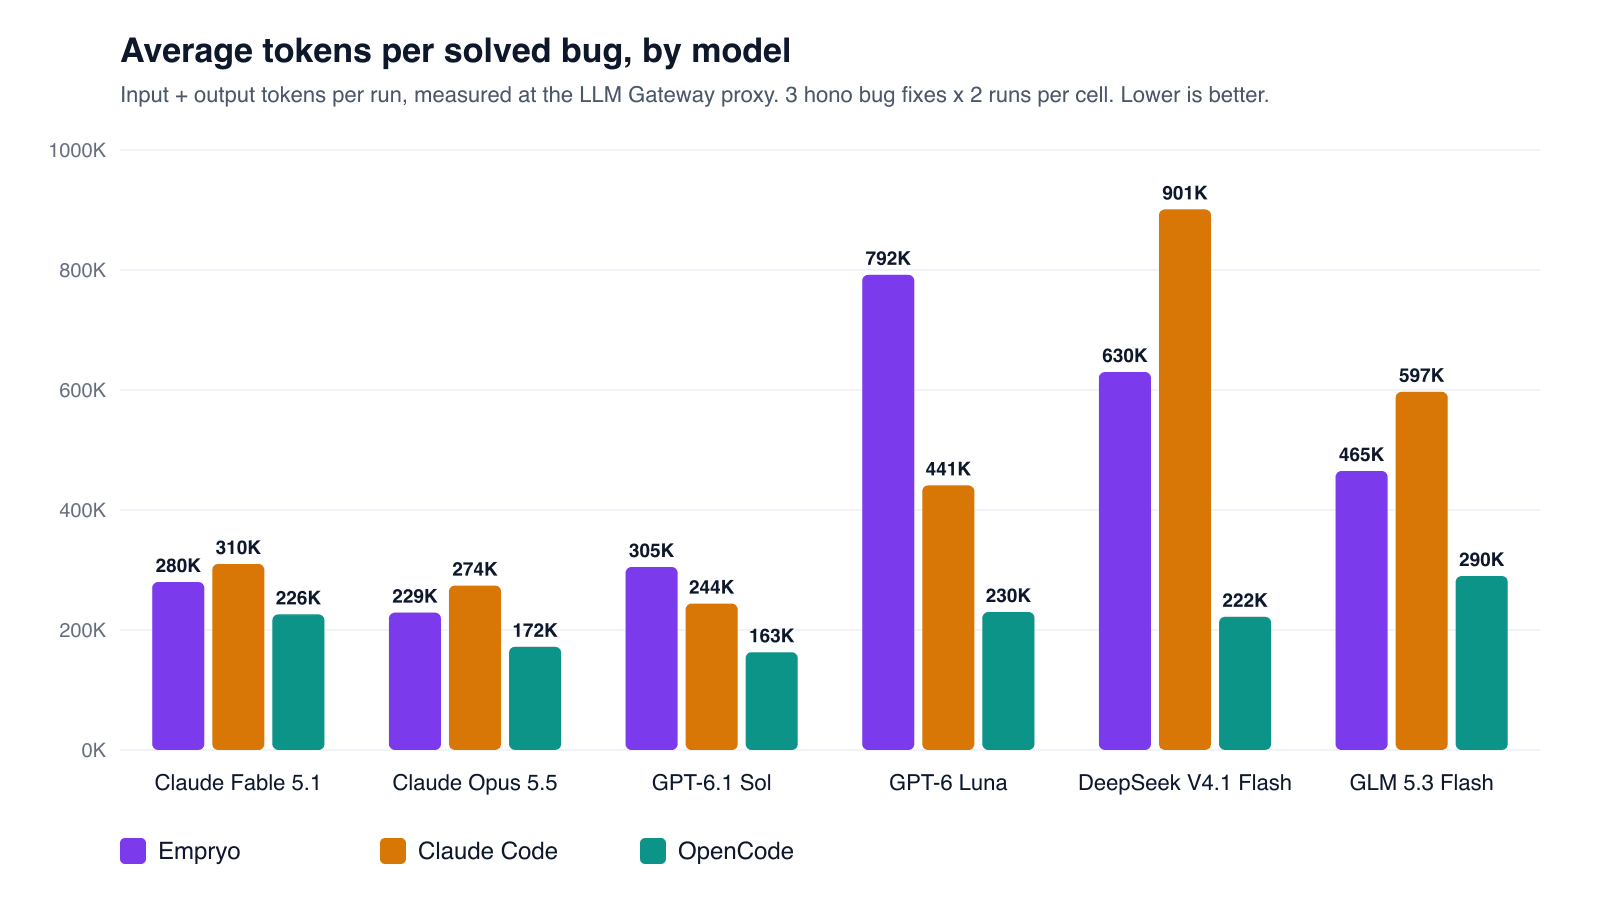
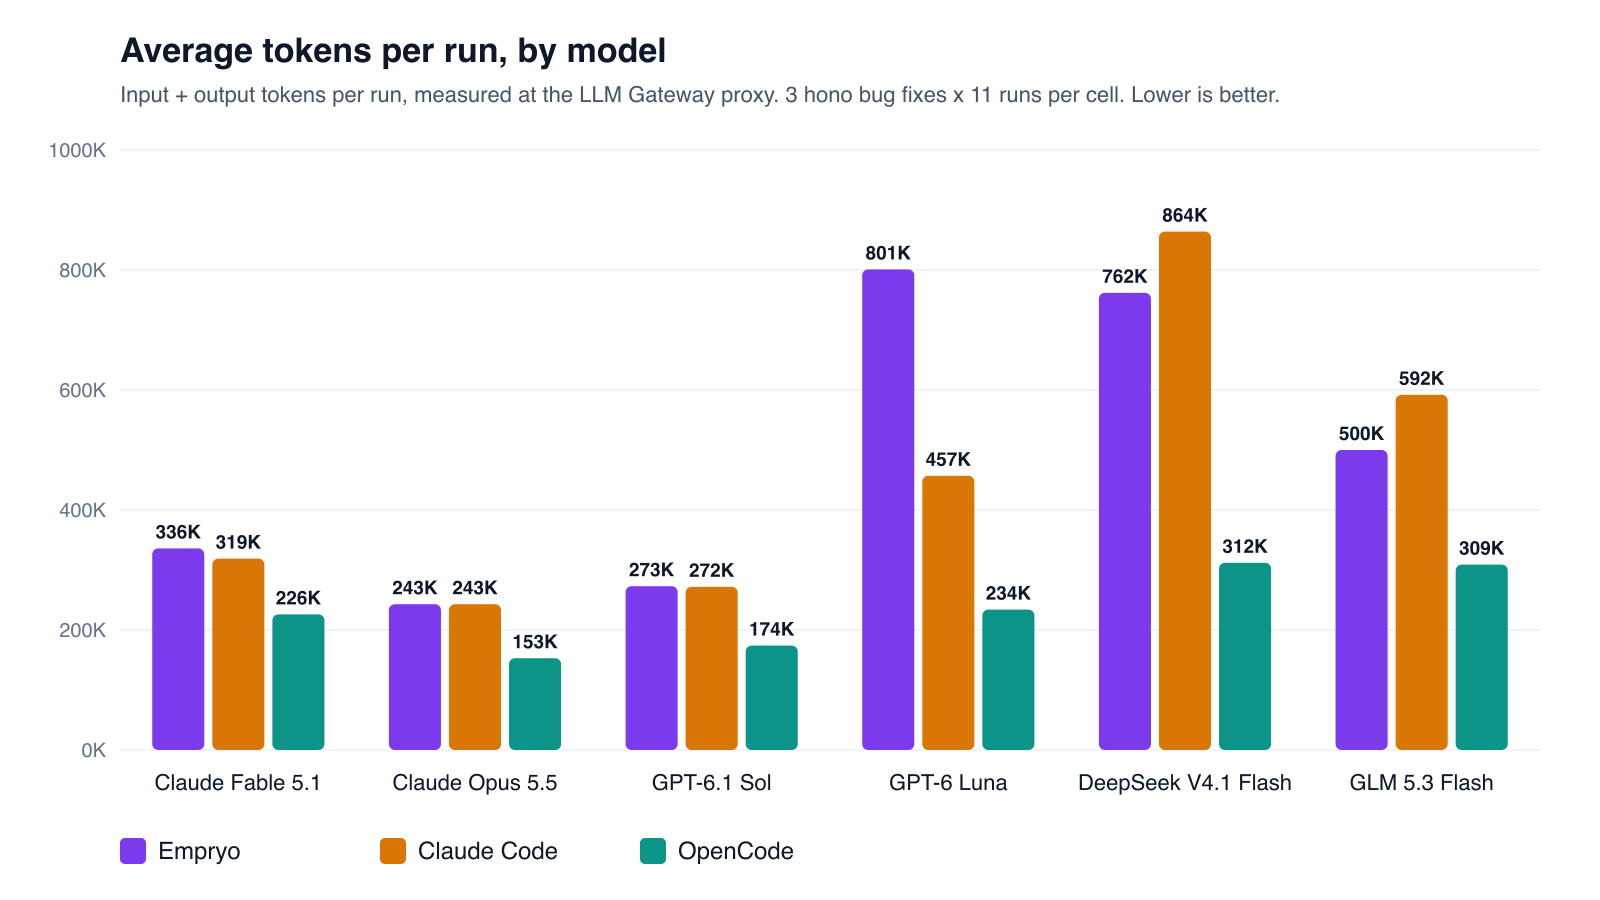
docs(blog): update agent benchmark post to 594 runs
- refresh tables, chart and findings from the 11-rep suite

diff --git a/apps/ui/src/content/blog/2026-10-14-coding-agent-token-benchmark.md b/apps/ui/src/content/blog/2026-10-14-coding-agent-token-benchmark.md
@@ -3,15 +3,15 @@ id: "blog-coding-agent-token-benchmark"
 slug: "coding-agent-token-benchmark"
 date: "2026-10-14"
 title: "Coding Agent Token Benchmark: Empryo vs Claude Code vs OpenCode"
-summary: "We ran Empryo, Claude Code and OpenCode on the same three real bug fixes with six models, 108 runs in total, and counted every token at the LLM Gateway proxy. OpenCode used the fewest tokens by a wide margin. Empryo used slightly fewer tokens than Claude Code overall but cost the most. Here is the coding agent benchmark, why the numbers come out this way, and how to reproduce it."
+summary: "We ran Empryo, Claude Code and OpenCode on the same three real bug fixes with six models, 594 runs and $114 of inference, and counted every token at the LLM Gateway proxy. OpenCode used about half the tokens of the other two. Empryo solved the most runs and beat Claude Code on DeepSeek and GLM, but used 6% more tokens overall and cost the most. Here is the coding agent benchmark, why the numbers come out this way, and how to reproduce it."
 categories: ["Guides", "Engineering"]
 faqs:
   - question: "Which coding agent uses the fewest tokens?"
-    answer: "In this benchmark, OpenCode. Across 108 runs on three real bug fixes it used 7.82M tokens, against 16.20M for Empryo and 16.60M for Claude Code, and it used the fewest tokens with every one of the six models. All three agents solved 35 or 36 of their 36 runs."
+    answer: "In this benchmark, OpenCode. Across 594 runs on three real bug fixes it used 46.5M tokens, against 90.6M for Claude Code and 96.2M for Empryo, and it used the fewest tokens with every one of the six models. Solve rates were close: Empryo 195 of 198 runs, OpenCode 194, Claude Code 189."
   - question: "Why do coding agents use such different amounts of tokens for the same task?"
-    answer: "Mostly fixed prompt overhead. Every request resends the system prompt and the tool definitions. Before reading any code, Empryo's first request averaged 24.3K tokens, Claude Code's 19.3K and OpenCode's 8.2K. With 13 to 17 requests per run, that overhead dominates the total on small tasks."
+    answer: "Mostly fixed prompt overhead. Every request resends the system prompt and the tool definitions. Before reading any code, Empryo's first request averaged 24.3K tokens, Claude Code's 19.3K and OpenCode's 8.2K. With 14 to 16 requests per run, that overhead dominates the total on small tasks."
   - question: "How were tokens counted?"
-    answer: "All three agents sent their traffic to https://api.llmgateway.io through a local proxy that forwards each request unchanged and records the usage block the gateway returned. The same code counted every agent. The computed cost of the 108 runs was $20.49; the API key was billed $20.54, including about $0.04 of smoke tests."
+    answer: "All three agents sent their traffic to https://api.llmgateway.io through a local proxy that forwards each request unchanged and records the usage block the gateway returned. The same code counted every agent. The computed cost of the 594 runs was $113.70; the API key was billed $114.07 in total, including smoke tests and the OG image."
   - question: "Can I reproduce this coding agent benchmark?"
     answer: "Yes. The harness, task definitions, prices, raw per-request logs, patches and grading logs are in scripts/agent-benchmark in the LLM Gateway repository. You need Node 24, Bun, the three CLIs and an LLM Gateway API key."
 image:
@@ -23,7 +23,7 @@ image:
 
 Give three coding agents the same model and the same bug, and one of them will spend twice the tokens of another. The model sets the price per token. The agent decides how many tokens you buy.
 
-We wanted a number for that, so we ran a **coding agent token benchmark**: Empryo, Claude Code and OpenCode, six models, three real bug fixes, two runs of each, 108 runs in total. Every request went through **LLM Gateway**, and every token was counted by the same code at the same place, between the agent and the gateway.
+We wanted a number for that, so we ran a **coding agent token benchmark**: Empryo, Claude Code and OpenCode, six models, three real bug fixes, eleven runs of each, 594 runs in total and $114 of inference. Every request went through **LLM Gateway**, and every token was counted by the same code at the same place, between the agent and the gateway.
 
 ## How the benchmark worked
 
@@ -53,55 +53,57 @@ Claude Code pointed at `https://api.llmgateway.io` with every model slot, includ
 
 ## Results: OpenCode used half the tokens
 
-| Agent       | Solved | Requests | Input tokens | Output tokens | Total tokens | Cost  |
-| ----------- | ------ | -------- | ------------ | ------------- | ------------ | ----- |
-| OpenCode    | 35/36  | 493      | 7.66M        | 0.17M         | **7.82M**    | $5.49 |
-| Empryo      | 36/36  | 475      | 15.99M       | 0.21M         | 16.20M       | $8.55 |
-| Claude Code | 36/36  | 595      | 16.35M       | 0.26M         | 16.60M       | $6.45 |
+| Agent       | Solved  | Requests | Input tokens | Output tokens | Total tokens | Cost   |
+| ----------- | ------- | -------- | ------------ | ------------- | ------------ | ------ |
+| OpenCode    | 194/198 | 2,820    | 45.54M       | 0.94M         | **46.47M**   | $30.26 |
+| Claude Code | 189/198 | 3,217    | 89.22M       | 1.42M         | 90.64M       | $35.71 |
+| Empryo      | 195/198 | 2,773    | 94.89M       | 1.29M         | 96.18M       | $47.74 |
 
-All three agents fixed the bugs. The one miss was OpenCode with GLM 5.3 Flash on the `prettyJSON()` task, where 2 of 12 upstream tests failed.
+All three agents fixed nearly every bug. Every one of the 16 misses was on the `prettyJSON()` task, the one with the most edge cases. Claude Code missed 9, five of them with GLM 5.3 Flash. Empryo missed 3 and OpenCode 4.
 
-OpenCode used the fewest tokens with every model. Empryo used 2.4% fewer tokens than Claude Code overall and fewer in 21 of 36 head-to-head runs, but it used more than OpenCode in 33 of 36.
+OpenCode used the fewest tokens with every model, about half of what the other two used. Empryo used 6% more tokens than Claude Code overall and fewer in 90 of 198 head-to-head runs. It used more than OpenCode in 177 of 198.
 
 ![Average tokens per run by model for Empryo, Claude Code and OpenCode. OpenCode is lowest for every model.](/blog/coding-agent-token-benchmark/tokens-per-run.png)
 
 | Model               | Empryo | Claude Code | OpenCode | Empryo cost | Claude Code cost | OpenCode cost |
 | ------------------- | ------ | ----------- | -------- | ----------- | ---------------- | ------------- |
-| Claude Fable 5.1    | 280K   | 310K        | 226K     | $5.30       | $3.70            | $3.47         |
-| Claude Opus 5.5     | 229K   | 274K        | 172K     | $2.10       | $1.37            | $1.33         |
-| GPT-6.1 Sol         | 305K   | 244K        | 163K     | $0.81       | $1.00            | $0.51         |
-| GPT-6 Luna          | 792K   | 441K        | 230K     | $0.09       | $0.08            | $0.04         |
-| DeepSeek V4.1 Flash | 630K   | 901K        | 222K     | $0.11       | $0.15            | $0.06         |
-| GLM 5.3 Flash       | 465K   | 597K        | 290K     | $0.14       | $0.15            | $0.09         |
+| Claude Fable 5.1    | 336K   | 319K        | 226K     | $29.83      | $20.77           | $19.53        |
+| Claude Opus 5.5     | 243K   | 243K        | 153K     | $11.74      | $7.25            | $6.78         |
+| GPT-6.1 Sol         | 273K   | 272K        | 174K     | $4.16       | $5.57            | $2.83         |
+| GPT-6 Luna          | 801K   | 457K        | 234K     | $0.52       | $0.46            | $0.25         |
+| DeepSeek V4.1 Flash | 762K   | 864K        | 312K     | $0.63       | $0.78            | $0.36         |
+| GLM 5.3 Flash       | 500K   | 592K        | 309K     | $0.85       | $0.88            | $0.52         |
 
-Token columns are the average per run. Cost columns are the total for six runs: three tasks, two runs each.
+Token columns are the average per run. Cost columns are the total for 33 runs: three tasks, eleven runs each.
 
 ## Why the gap is so wide: fixed prompt overhead
 
-The three agents made a similar number of requests: 13.2 per run for Empryo, 13.7 for OpenCode and 16.5 for Claude Code. Output was small for all of them, under 2% of tokens. The difference is how much each request carries.
+The three agents made a similar number of requests: 14.0 per run for Empryo, 14.2 for OpenCode and 16.2 for Claude Code. Output was small for all of them, 1.3% to 2.0% of tokens. The difference is how much each request carries.
 
 ![Tokens in the first request: Empryo 24.3K, Claude Code 19.3K, OpenCode 8.2K](/blog/coding-agent-token-benchmark/first-request.png)
 
-Before an agent reads a single file, its first request already holds the system prompt and every tool definition. Empryo sends 26 tools and averaged 24.3K tokens. Claude Code sends 20 tools and averaged 19.3K. OpenCode sends 9 or 10 tools and averaged 8.2K. Agentic loops resend that prefix on every turn, so the average request was 33.7K input tokens for Empryo, 27.5K for Claude Code and 15.5K for OpenCode.
+Before an agent reads a single file, its first request already holds the system prompt and every tool definition. Empryo sends 26 tools and averaged 24.3K tokens. Claude Code sends 20 tools and averaged 19.3K. OpenCode sends 9 or 10 tools and averaged 8.2K. Agentic loops resend that prefix on every turn, so the average request was 34.2K input tokens for Empryo, 27.7K for Claude Code and 16.2K for OpenCode.
 
-On a bug that takes 10 to 15 turns, that fixed cost is most of the bill. Prompt caching makes it cheaper, not smaller: 92% of input tokens in this benchmark were cache reads, and you pay for every one of them.
+On a bug that takes 10 to 20 turns, that fixed cost is most of the bill. Prompt caching makes it cheaper, not smaller: 90% to 92% of input tokens in this benchmark were cache reads, and you pay for every one of them.
 
 ## Where Empryo came out ahead
 
-Empryo made the fewest requests per run, and with Anthropic, DeepSeek and GLM models that was enough to beat Claude Code on tokens: 10% fewer with Fable, 16% with Opus, 30% with DeepSeek and 22% with GLM. It was also faster than Claude Code, at 129 seconds per run against 161. OpenCode averaged 81.
+Empryo solved the most runs, 195 of 198. It made fewer requests than Claude Code with four of the six models, and with the two open-weight models that was enough to win on tokens: 12% fewer than Claude Code with DeepSeek V4.1 Flash and 16% fewer with GLM 5.3 Flash. With Opus and Sol the two were level, within 1%.
 
-With the two OpenAI models it went the other way. Empryo used 25% more tokens than Claude Code with Sol and 80% more with Luna, where one task took it 49 requests on the first run and 35 on the second.
+GPT-6 Luna is where Empryo lost the most ground. It averaged 21.8 requests per run against 16.2 for Claude Code and used 75% more tokens. On the AWS Lambda task alone, its Luna runs ranged from 12 to 49 requests. Leave Luna out and Empryo used 8% fewer tokens than Claude Code across the other five models.
 
 ## Fewer tokens did not mean a lower bill
 
-With Fable and Opus, Empryo used fewer tokens than Claude Code and still cost the most. It asks Anthropic for a one-hour prompt cache, and a one-hour cache write costs $20 per million tokens on Fable against $12.50 for the default five-minute cache. On runs that finish in about a minute, the longer cache never pays for itself. Empryo cost $5.30 on Fable against $3.70 for Claude Code and $3.47 for OpenCode.
+With Opus, Empryo and Claude Code used the same number of tokens, and Empryo cost 62% more: $11.74 against $7.25. Empryo asks Anthropic for a one-hour prompt cache. A one-hour cache write costs $8 per million tokens on Opus and $20 on Fable, against $5 and $12.50 for the default five-minute cache. On runs that finish in a minute or two, the longer cache never pays for itself.
+
+It works the other way with Sol: the same token count as Claude Code, 25% cheaper. Claude Code wrote more than twice as many output tokens with Sol, at $10 per million, and sent more of its prompt uncached.
 
 Tokens tell you how much context an agent moves. The bill also depends on cache settings and on the model's price per token. Measure both.
 
 ## What this benchmark does not show
 
 - **Small, well-specified bugs.** Each fix touched one or two files. On long, exploratory tasks, an agent that makes fewer, better-targeted requests could recover its larger prompt. We did not test that here.
-- **Two runs per combination.** Single runs vary. Claude Code with GLM took 29 requests on one `prettyJSON()` run and 51 on the other.
+- **Runs vary.** Eleven runs per combination smooth the noise, but single runs still swing. Claude Code with GLM took between 16 and 62 requests on the same `prettyJSON()` bug.
 - **Defaults only.** Every agent ran with a fresh install and its default settings. Tuned setups will differ.
 - **One day of pricing.** Costs use the pinned providers' list prices from October 14, 2026.
 
@@ -112,11 +114,11 @@ The harness, task definitions, prices, per-request logs, patches and grading log
 ```bash
 export LLM_GATEWAY_API_KEY=your_key
 node scripts/agent-benchmark/setup.mjs
-node scripts/agent-benchmark/run.mjs --suite my-run --reps 2 --concurrency 6
+node scripts/agent-benchmark/run.mjs --suite my-run --reps 11 --concurrency 8 --max-spend 120
 node scripts/agent-benchmark/report.mjs my-run
 ```
 
-`setup.mjs` clones hono, installs each task's starting commit, saves the hidden tests and creates a local certificate authority for the counting proxy. `run.mjs` takes `--agents`, `--models`, `--tasks` and `--reps`, and resumes a suite where it stopped. The computed cost of our 108 runs was $20.49; the API key was billed $20.54, including about $0.04 of smoke tests.
+`setup.mjs` clones hono, installs each task's starting commit, saves the hidden tests and creates a local certificate authority for the counting proxy. `run.mjs` takes `--agents`, `--models`, `--tasks` and `--reps`, resumes a suite where it stopped and stops queuing runs at `--max-spend`. The computed cost of our 594 runs was $113.70; the API key was billed $114.07 in total, including smoke tests and the OG image.
 
 ## Measure your own agent
 
